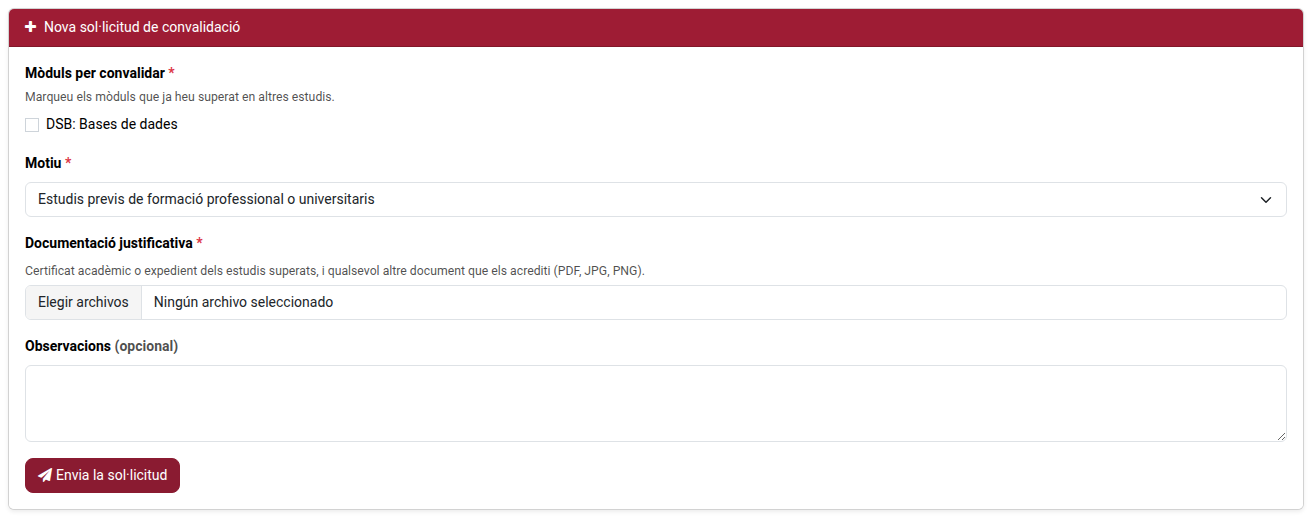
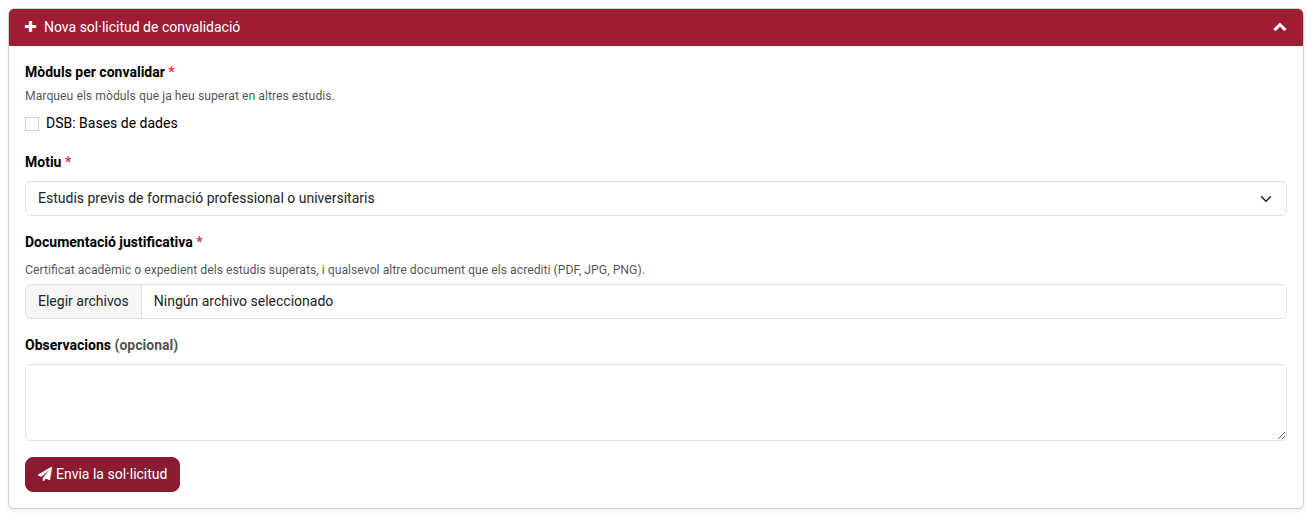
Refine convalidation portal page and log requests in Communications
- fold the new-request form (open with ?new=1 or after an error)
- reorder portal menu and home cards
- post request, cancel, reopen and resolution to the student's Communications
- translate the portal home card

diff --git a/static/tests/tours/convalidation_tour.js b/static/tests/tours/convalidation_tour.js
@@ -90,7 +90,13 @@ registry.category("web_tour.tours").add("ems_portal_convalidation_submit", {
     url: "/my/convalidaciones",
     steps: () => [
         {
-            trigger: ".o_ems_convalidation_new input[name='subject_ids']:first",
+            // Tour triggers only match visible nodes, so the folded state is read off the toggle.
+            trigger: ".o_ems_convalidation_new .o_ems_convalidation_toggle.collapsed",
+            content: "The new-request form starts folded; unfold it",
+            run: "click",
+        },
+        {
+            trigger: ".o_ems_convalidation_new #convalidation_new_body.show input[name='subject_ids']:first",
             content: "Mark the first subject",
             run: "click",
         },

diff --git a/models/grades/convalidation.py b/models/grades/convalidation.py
@@ -1,5 +1,7 @@
 # -*- coding: utf-8 -*-
 
+from markupsafe import Markup
+
 from odoo import _, api, fields, models
 from odoo.exceptions import UserError, ValidationError
 
@@ -115,8 +117,17 @@ class EmsConvalidation(models.Model):
 
     @api.model_create_multi
     def create(self, vals_list):
-        convalidations = super().create(vals_list)
+        # Nobody follows a request on creation: the portal creates it on the student's behalf,
+        # and a follower would get an email for every message posted to the student's
+        # Communications page (see _ems_post_communication) on top of the resolution email.
+        convalidations = super(EmsConvalidation, self.with_context(mail_create_nosubscribe=True)).create(vals_list)
         convalidations._ems_link_attachments()
+        for convalidation in convalidations:
+            convalidation._ems_post_communication(
+                _("Convalidation request submitted"),
+                Markup("<p>{}</p>{}").format(
+                    _("Subjects requested:"),
+                    self.env['ems.base'].build_html_list(convalidation.line_ids.subject_id.mapped('display_name'))))
         return convalidations
 
     def write(self, vals):
@@ -147,8 +158,9 @@ class EmsConvalidation(models.Model):
     def _ems_on_resolved(self):
         """Stamp and notify the requests that have just become resolved. Called after every
         change that can resolve one: a write on the request itself or on one of its lines, so
-        it is idempotent - the stamp is what tells a request already notified. A request reopened after its resolution loses the stamp, so resolving it again
-        notifies the new outcome."""
+        it is idempotent - the stamp is what tells a request already notified. A request
+        reopened after its resolution loses the stamp, so resolving it again notifies the new
+        outcome."""
         reopened = self.filtered(lambda convalidation: convalidation.state != 'resolved'
                                  and convalidation.resolution_date)
         if reopened:
@@ -174,11 +186,26 @@ class EmsConvalidation(models.Model):
         for recipient in addressable:
             template.with_context(lang=recipient.lang or self.student_id.lang).sudo().send_mail(
                 self.id, force_send=False, email_values={'email_to': recipient.email})
+        # The same text, in the language of whoever reads it, on the Communications page.
+        lang = recipients[:1].lang or self.student_id.lang or self.env.lang
+        localized = template.with_context(lang=lang).sudo()
+        self._ems_post_communication(
+            localized._render_field('subject', self.ids)[self.id],
+            localized._render_field('body_html', self.ids)[self.id])
         if addressable:
             body = _("Resolution sent to %s.") % ", ".join(addressable.mapped('email'))
         else:
             body = _("The resolution could not be emailed: nobody to notify has an email address.")
         self.sudo().message_post(body=body, message_type='comment', subtype_xmlid='mail.mt_note')
+
+    def _ems_post_communication(self, subject, body):
+        """Record a message the student (or the family) has to see on the portal's
+        Communications page, which lists the requests' comments but never their internal
+        notes. Nobody follows a request (see create), so posting notifies nobody: the emails
+        are sent on their own terms (_ems_send_resolution)."""
+        self.ensure_one()
+        self.sudo().message_post(subject=subject, body=body, message_type='comment',
+                                 subtype_xmlid='mail.mt_comment')
 
     # --- actions ---
 
@@ -187,9 +214,17 @@ class EmsConvalidation(models.Model):
             if convalidation.line_ids.filtered(lambda line: line.state != 'pending'):
                 raise UserError(_("A request cannot be cancelled once a subject has been resolved or forwarded."))
         self.write({'is_cancelled': True})
+        for convalidation in self:
+            convalidation._ems_post_communication(
+                _("Convalidation request cancelled"),
+                _("The request has been cancelled by %s.") % self.env.user.name)
 
     def action_reopen(self):
         self.write({'is_cancelled': False})
+        for convalidation in self:
+            convalidation._ems_post_communication(
+                _("Convalidation request reopened"),
+                _("The request has been reopened by %s.") % self.env.user.name)
 
     def action_grant_pending(self):
         self.line_ids.filtered(lambda line: line.state == 'pending').action_grant()

diff --git a/tests/test_convalidation.py b/tests/test_convalidation.py
@@ -247,6 +247,34 @@ class TestConvalidation(TransactionCase):
         self._line(request).with_user(self.head_of_studies).action_grant()
         self.assertEqual(self._resolution_mails(request).mapped('email_to'), [family.email])
 
+    def test_student_communications_are_comments_nobody_follows(self):
+        request = self._request(user=self.head_of_studies)
+        comment = self.env.ref('mail.mt_comment')
+        submitted = request.message_ids.filtered(lambda message: message.subtype_id == comment)
+        self.assertEqual(submitted.mapped('subject'), ['Convalidation request submitted'])
+        self.assertIn(self.subject.display_name, submitted.body)
+        self.assertFalse(request.message_partner_ids)
+        self._line(request).with_user(self.head_of_studies).action_grant()
+        request.invalidate_recordset(['message_ids'])
+        # Rendered in the recipient's language, so only its shape is checked.
+        resolved = request.message_ids.filtered(lambda message: message.subtype_id == comment) - submitted
+        self.assertEqual(len(resolved), 1)
+        self.assertIn(self.student.name, resolved.subject)
+        self.assertIn(self.subject.display_name, resolved.body)
+        # Posting emails nobody: the only email is the resolution itself.
+        self.assertEqual(len(self._resolution_mails(request)), 1)
+        self.assertEqual(len(self.env['mail.mail'].sudo().search([
+            ('model', '=', 'ems.convalidation'), ('res_id', '=', request.id)])), 1)
+
+    def test_cancel_and_reopen_are_communicated(self):
+        request = self._request()
+        request.with_user(self.secretary).action_cancel()
+        request.with_user(self.secretary).action_reopen()
+        self.assertEqual(
+            request.message_ids.filtered(lambda message: message.subtype_id == self.env.ref('mail.mt_comment'))
+            .mapped('subject'),
+            ['Convalidation request reopened', 'Convalidation request cancelled', 'Convalidation request submitted'])
+
     def test_resolution_without_any_email_is_logged(self):
         student = self.env['res.partner'].create({
             'name': 'Convalidation No Email', 'contact_type': 'student', 'student_id': next_student_id(),

diff --git a/controllers/portal_convalidation.py b/controllers/portal_convalidation.py
@@ -2,9 +2,7 @@
 
 import base64
 
-from markupsafe import Markup, escape
-
-from odoo import _, http
+from odoo import http
 from odoo.http import request
 from odoo.addons.portal.controllers.portal import CustomerPortal
 
@@ -47,6 +45,8 @@ class EmsPortalConvalidationController(CustomerPortal):
             'line_state_labels': dict(line_states['state']['selection']),
             'error': kwargs.get('error'),
             'submitted': kwargs.get('submitted'),
+            # ?new=1 opens the (folded by default) new-request form, as a direct link to it.
+            'open_new': bool(kwargs.get('new')),
         })
         return request.render('ems.portal_convalidations', values)
 
@@ -91,9 +91,6 @@ class EmsPortalConvalidationController(CustomerPortal):
             'res_id': convalidation.id,
         } for upload in files])
         convalidation.attachment_ids = [(6, 0, attachments.ids)]
-        convalidation.message_post(
-            body=Markup(_("Request submitted from the portal by %s.")) % escape(requester.name),
-            message_type='comment', subtype_xmlid='mail.mt_note')
         return request.redirect(f'{self._redirect}?submitted=1')
 
     @http.route('/my/convalidaciones/cancel/<int:convalidation_id>', type='http', auth='user',
@@ -104,8 +101,4 @@ class EmsPortalConvalidationController(CustomerPortal):
         if student and convalidation.exists() and convalidation.student_id == student \
                 and convalidation.state == 'submitted':
             convalidation.action_cancel()
-            convalidation.message_post(
-                body=Markup(_("Request cancelled from the portal by %s."))
-                % escape(request.env.user.partner_id.name),
-                message_type='comment', subtype_xmlid='mail.mt_note')
         return request.redirect(self._redirect)

diff --git a/tests/test_portal_convalidation.py b/tests/test_portal_convalidation.py
@@ -78,6 +78,17 @@ class TestPortalConvalidation(HttpCase):
         self.assertIn(self.subject.name, response.text)
         self.assertIn(self.other_subject.name, response.text)
         self.assertNotIn(self.tutorship.name, response.text)
+        self.assertIn('id="convalidation_new_body" class="collapse "', response.text)
+
+    def test_form_opens_after_a_validation_error(self):
+        self._login(self.student_user)
+        page = self.url_open('/my/convalidaciones?error=no_documents').text
+        self.assertIn('id="convalidation_new_body" class="collapse show"', page)
+
+    def test_form_opens_on_request(self):
+        self._login(self.student_user)
+        page = self.url_open('/my/convalidaciones?new=1').text
+        self.assertIn('id="convalidation_new_body" class="collapse show"', page)
 
     def test_student_submits_a_request(self):
         self._login(self.student_user)
@@ -154,6 +165,15 @@ class TestPortalConvalidation(HttpCase):
         self._login(self.other_user)
         self.url_open(f'/my/convalidaciones/cancel/{request.id}', data={'csrf_token': Request.csrf_token(self)})
         self.assertEqual(request.state, 'submitted')
+
+    def test_communications_page_records_the_request_and_its_resolution(self):
+        self._login(self.student_user)
+        self._submit(self.subject)
+        self._requests(self.student).line_ids.sudo().action_reject()
+        page = self.url_open('/my/comunicaciones').text
+        self.assertIn('Convalidation request submitted', page)
+        self.assertIn('Convalidation request resolved', page)
+        self.assertIn(self.subject.name, page)
 
     def test_resolved_requests_show_their_resolution(self):
         request = self.env['ems.convalidation'].create({

diff --git a/controllers/portal_comms.py b/controllers/portal_comms.py
@@ -25,14 +25,20 @@ class EMSPortalCommsController(CustomerPortal):
             ('partner_id', '=', partner.id)
         ]).ids
 
-        # Dominio combinado: mensajes dirigidos al partner, del chatter de matrícula o de documentos
-        # Excluimos notas internas (mail.mt_note) para que no sean visibles en el portal
+        # IDs de las solicitudes de convalidación del alumno (issue #276)
+        convalidation_ids = request.env['ems.convalidation'].sudo().search([
+            ('student_id', '=', partner.id)
+        ]).ids
+
+        # Dominio combinado: mensajes dirigidos al partner, del chatter de matrícula, de documentos
+        # o de convalidaciones. Excluimos notas internas (mail.mt_note) para que no sean visibles en el portal
         note_subtype = request.env.ref('mail.mt_note')
         domain = [
-            '|', '|',
+            '|', '|', '|',
                 ('partner_ids', 'in', [partner.id]),
                 '&', ('model', '=', 'sale.order'), ('res_id', 'in', sale_order_ids),
                 '&', ('model', '=', 'ems.student.document'), ('res_id', 'in', document_ids),
+                '&', ('model', '=', 'ems.convalidation'), ('res_id', 'in', convalidation_ids),
             ('message_type', 'in', ['email', 'comment', 'notification']),
             ('subtype_id', '!=', note_subtype.id),
         ]

diff --git a/tests/test_docs_screenshots.py b/tests/test_docs_screenshots.py
@@ -338,9 +338,10 @@ class TestDocsScreenshots(HttpCase):
             wait_for='.o_list_renderer .o_data_row',
         )
         self._capture(
-            '/my/convalidaciones', '.o_ems_convalidation_new',
+            '/my/convalidaciones?new=1', '.o_ems_convalidation_new',
             'convalidations-portal-new.png',
             login='doc_shot_portal',
+            wait_for='#convalidation_new_body.show',
         )
         self._capture(
             '/my/convalidaciones', '.o_ems_convalidation_request',

diff --git a/changelog/276-request-convalidations-through-the-students-portal.md b/changelog/276-request-convalidations-through-the-students-portal.md
@@ -1,7 +1,8 @@
 # What's new:
 
 ## Subject convalidation requests from the student portal (issue #276):
-- New portal page Convalidations (/my/convalidaciones, also a home card and a top-bar link): a student, or the family of a minor for the selected child, ticks the modules of their vocational training study to convalidate, picks the grounds (prior studies / professional certificate / other), attaches the supporting documents (at least one file) and submits. The page lists every request with the resolution and remarks of each module, and a request can be cancelled while nothing has been resolved yet.
+- New portal page Convalidations (/my/convalidaciones, also a home card and a top-bar link): a student, or the family of a minor for the selected child, ticks the modules of their vocational training study to convalidate, picks the grounds (prior studies / professional certificate / other), attaches the supporting documents (at least one file) and submits. The page lists every request with the resolution and remarks of each module, and a request can be cancelled while nothing has been resolved yet. The new-request form is folded under its header and unfolds on click (or directly with /my/convalidaciones?new=1, and again after a validation error), so the page shows the existing requests first. The Convalidations card and top-bar link sit right after Enrollment and authorizations (order: Home, Attendance, Grades, Enrollment and authorizations, Convalidations, Documentation, Communications, Profile).
+- The portal's Communications page now also records every convalidation event of the student: the request (with its subjects), its cancellation or reopening and the resolution (same text as the email, in the reader's language). They are posted as comments on a request nobody follows, so they send no extra email.
 - The study offered is the one of the student's enrollment for the course being enrolled into, falling back to their current group's study. Only studies whose level has the new "Allows convalidations" flag qualify (set for CFGM and CFGS in data/cat/ems.level.csv, the cycles the centre publishes convalidation forms for). The tutorship is never offered, and a module already requested is not offered again unless it was rejected.
 - Decisions taken without the developer (autopilot): ESO/Batxillerat convalidations are out of scope, as agreed; no request window/deadline setting (the centre's page publishes none); the Head of Studies is not sent an activity per request, the list's default "To resolve" filter is the work queue.
 
@@ -20,6 +21,6 @@
 # Internal changes:
 
 ## Convalidation tests, tours and docs (issue #276):
-- tests/test_convalidation.py (34 tests: requests, access per role, notification, grades and year record sync, portal helpers), tests/test_portal_convalidation.py (11 HTTP tests of the portal routes) and tests/test_convalidation_tour.py (5 tours, each as the least-privileged role: Head of Studies for the list/form/stat button, the group's tutor-teacher for CV in both grade screens, a portal student submitting with a file).
+- tests/test_convalidation.py (36 tests: requests, access per role, notification, grades and year record sync, portal helpers), tests/test_portal_convalidation.py (14 HTTP tests of the portal routes, folded form and Communications page included) and tests/test_convalidation_tour.py (5 tours, each as the least-privileged role: Head of Studies for the list/form/stat button, the group's tutor-teacher for CV in both grade screens, a portal student submitting with a file).
 - TestDocsScreenshots gets a convalidation capture method (form, list and two portal shots, now in docs/assets); its student fixture now sets a Student ID, which issue #460 made mandatory (same fix as branch 478).
 - Technical doc docs/en/developers/grades/convalidation.md; Head of Studies manual (shared with the secretariat) and families portal manual in ca/es/en; CV and the level flag added to the teachers', tutors' and admin level manuals.

diff --git a/docs/es/families/manual-portal-alumne.md b/docs/es/families/manual-portal-alumne.md
@@ -24,12 +24,12 @@ Esta guía explica de forma detallada los pasos que deben seguir los alumnos (o 
 El portal del alumnado es el espacio virtual centralizado desde donde el estudiante y su familia pueden gestionar su vida académica y administrativa con el centro de manera sencilla, ágil y 100% en línea.
 
 Actualmente, el portal permite realizar las siguientes gestiones:
+* **Asistencia:** Consultar el horario semanal de clases del alumno y descargarlo en PDF.
 * **Matrícula y autorizaciones:** Gestionar el proceso de matrícula, revisar los pagos o cuotas y responder y firmar las autorizaciones de centro de forma digital — tanto las que llegan con la matrícula como las que el centro envía durante el curso.
+* **Convalidaciones:** Solicitar la convalidación de módulos de formación profesional y seguir su resolución. Véase [Solicitar convalidaciones](manual-convalidacions.md).
 * **Documentación:** Subir, guardar y consultar todos los documentos oficiales solicitados por el centro.
 * **Comunicaciones:** Recibir de forma inmediata los mensajes, circulares y avisos enviados por el equipo directivo, tutores o secretaría.
-* **Convalidaciones:** Solicitar la convalidación de módulos de formación profesional y seguir su resolución. Véase [Solicitar convalidaciones](manual-convalidacions.md).
 * **Perfil:** Mantener actualizados los datos personales, de contacto y de seguridad de la cuenta de acceso.
-* **Asistencia:** Consultar el horario semanal de clases del alumno y descargarlo en PDF.
 
 **Funcionalidades disponibles próximamente.** Estamos trabajando en el desarrollo de nuevos módulos para mejorar la herramienta. Muy pronto se activará el siguiente entorno:
 * **Calificaciones:** Acceder de forma directa a las notas de las diferentes evaluaciones.
@@ -80,7 +80,7 @@ Una vez registrados, entraréis directamente en el panel principal o página de 
 
 La interfaz web está optimizada y diseñada para facilitar una navegación limpia e intuitiva:
 * **Menú superior:** Tenéis un acceso permanente a todas las áreas de gestión del centro.
-* **Tarjetas centralizadas:** Disponéis de botones visuales para acceder a cada uno de los servicios clave (**Asistencia**, **Calificaciones**, **Matrícula y autorizaciones**, **Comunicaciones**, **Documentación**, **Convalidaciones** y **Perfil**).
+* **Tarjetas centralizadas:** Disponéis de botones visuales para acceder a cada uno de los servicios clave (**Asistencia**, **Calificaciones**, **Matrícula y autorizaciones**, **Convalidaciones**, **Documentación**, **Comunicaciones** y **Perfil**).
 * **Perfil del usuario:** En la parte derecha tendréis siempre visible la información básica del perfil activo del alumno junto con su fotografía identificativa del expediente.
 
 ![Panel principal y tarjetas de servicios del portal del alumno](../../assets/families/manual-portal-alumne-02.png)

diff --git a/docs/ca/families/manual-portal-alumne.md b/docs/ca/families/manual-portal-alumne.md
@@ -24,12 +24,12 @@ Aquesta guia explica de forma detallada els passos que han de seguir els alumnes
 El portal de l'alumnat és l'espai virtual centralitzat des d'on l'estudiant i la seva família poden gestionar la seva vida acadèmica i administrativa amb el centre de manera senzilla, àgil i 100% en línia.
 
 Actualment, el portal permet realitzar les següents gestions:
+* **Assistència:** Consultar l'horari setmanal de classes de l'alumne i descarregar-lo en PDF.
 * **Matrícula i autoritzacions:** Gestionar el procés de matrícula, revisar els pagaments o quotes i respondre i signar les autoritzacions de centre de forma digital — tant les que arriben amb la matrícula com les que el centre envia durant el curs.
+* **Convalidacions:** Sol·licitar la convalidació de mòduls de formació professional i seguir-ne la resolució. Vegeu [Sol·licitar convalidacions](manual-convalidacions.md).
 * **Documentació:** Pujar, desar i consultar tots els documents oficials sol·licitats pel centre.
 * **Comunicacions:** Rebre de forma immediata els missatges, circulars i avisos enviats per l'equip directiu, tutors o secretaria.
-* **Convalidacions:** Sol·licitar la convalidació de mòduls de formació professional i seguir-ne la resolució. Vegeu [Sol·licitar convalidacions](manual-convalidacions.md).
 * **Perfil:** Mantenir actualitzades les dades personals, de contacte i de seguretat del compte d'accés.
-* **Assistència:** Consultar l'horari setmanal de classes de l'alumne i descarregar-lo en PDF.
 
 **Funcionalitats disponibles pròximament.** Estem treballant en el desenvolupament de nous mòduls per millorar l'eina. Molt aviat s'activarà l'entorn següent:
 * **Qualificacions:** Accedir de forma directa a les notes de les diferents avaluacions.
@@ -80,7 +80,7 @@ Un cop registrats, entrareu directament al tauler principal o pàgina d'inici (*
 
 La interfície web està optimitzada i dissenyada per facilitar una navegació neta i intuïtiva:
 * **Menú superior:** Teniu un accés permanent a totes les àrees de gestió del centre.
-* **Targetes centralitzades:** Disposeu de botons visuals per accedir a cadascun dels serveis clau (**Assistència**, **Qualificacions**, **Matrícula i autoritzacions**, **Comunicacions**, **Documentació**, **Convalidacions** i **Perfil**).
+* **Targetes centralitzades:** Disposeu de botons visuals per accedir a cadascun dels serveis clau (**Assistència**, **Qualificacions**, **Matrícula i autoritzacions**, **Convalidacions**, **Documentació**, **Comunicacions** i **Perfil**).
 * **Perfil de l'usuari:** A la part dreta tindreu sempre visible la informació bàsica del perfil actiu de l'alumne juntament amb la seva fotografia identificativa de l'expedient.
 
 ![Panell principal i targetes de serveis del portal de l'alumne](../../assets/families/manual-portal-alumne-02.png)

diff --git a/docs/en/families/manual-portal-alumne.md b/docs/en/families/manual-portal-alumne.md
@@ -24,12 +24,12 @@ This guide explains in detail the steps students (or their families) must follow
 The student portal is the centralized virtual space from which the student and their family can manage their academic and administrative life with the school in a simple, fast and fully online way.
 
 Currently, the portal allows the following tasks:
+* **Attendance:** Check the student's weekly class schedule and download it as a PDF.
 * **Enrollment and authorizations:** Manage the enrollment process, review payments or fees, and answer and sign the school authorizations digitally — both the ones that come with the enrollment and the ones the school sends during the course.
+* **Convalidations:** Request the convalidation of vocational training modules and follow the resolution. See [Requesting convalidations](manual-convalidacions.md).
 * **Documentation:** Upload, store and consult all the official documents requested by the school.
 * **Communications:** Receive messages, circulars and notices sent by the management team, tutors or the secretariat immediately.
-* **Convalidations:** Request the convalidation of vocational training modules and follow the resolution. See [Requesting convalidations](manual-convalidacions.md).
 * **Profile:** Keep the personal, contact and account security data up to date.
-* **Attendance:** Check the student's weekly class schedule and download it as a PDF.
 
 **Features available soon.** We are developing new modules to improve the tool. The following area will be activated very soon:
 * **Grades:** Access the marks of the different evaluations directly.
@@ -80,7 +80,7 @@ Once registered, you will go directly to the main dashboard or home page of the 
 
 The web interface is optimized and designed to provide clean and intuitive navigation:
 * **Top menu:** You have permanent access to all the school's management areas.
-* **Centralized cards:** You have visual buttons to access each of the key services (**Attendance**, **Grades**, **Enrollment and authorizations**, **Communications**, **Documentation**, **Convalidations** and **Profile**).
+* **Centralized cards:** You have visual buttons to access each of the key services (**Attendance**, **Grades**, **Enrollment and authorizations**, **Convalidations**, **Documentation**, **Communications** and **Profile**).
 * **User profile:** On the right side you will always see the basic information of the active student profile along with their ID photo from the record.
 
 ![Main dashboard and service cards of the student portal](../../assets/families/manual-portal-alumne-02.png)

diff --git a/docs/en/developers/grades/convalidation.md b/docs/en/developers/grades/convalidation.md
@@ -84,6 +84,8 @@ A forwarded line keeps the request open: the Department's answer is recorded lat
 
 Reopening clears the stamp, so resolving again notifies the new outcome.
 
+**Communications page.** The portal's Communications page (`controllers/portal_comms.py`) lists the comments posted on the student's requests, never their internal notes. `_ems_post_communication()` posts one comment each time the request is created (with the subjects asked for), cancelled, reopened or resolved. The resolution comment is the email's own rendered subject and body, in the language of the first recipient. Requests are created with `mail_create_nosubscribe`, so they have no followers and these comments email nobody; the only email stays the resolution one. The chatter note naming the recipients (or the lack of any) remains internal.
+
 ## Grades integration
 
 `ems.grade_subject_line.is_convalidated` and `ems.student.year_record.subject.is_convalidated` are **mirrors** kept in sync by `ems.convalidation.line._ems_sync_grades()`. The source of truth is `_ems_is_convalidated(student, subject)`: some granted line, in a request that is not cancelled, for that student and subject, in any course.
@@ -108,7 +110,7 @@ flowchart LR
 
 | Route | Behaviour |
 |-------|-----------|
-| `GET /my/convalidaciones` | Requests of the student, plus the new-request form when `_ems_portal_study()` finds a study. |
+| `GET /my/convalidaciones` | Requests of the student, plus the new-request form when `_ems_portal_study()` finds a study. The form is a Bootstrap collapse, folded by default; it opens with `?new=1` or when the page comes back with a validation `?error=`. |
 | `POST /my/convalidaciones/submit` | Checks that at least one subject in `_ems_portal_requestable_subjects()`, a valid `basis` and at least one file are sent, then creates the request, attachments and a chatter note. Anything else redirects with `?error=`. |
 | `POST /my/convalidaciones/cancel/<id>` | Only the student's own request, only while `submitted`. |
 
